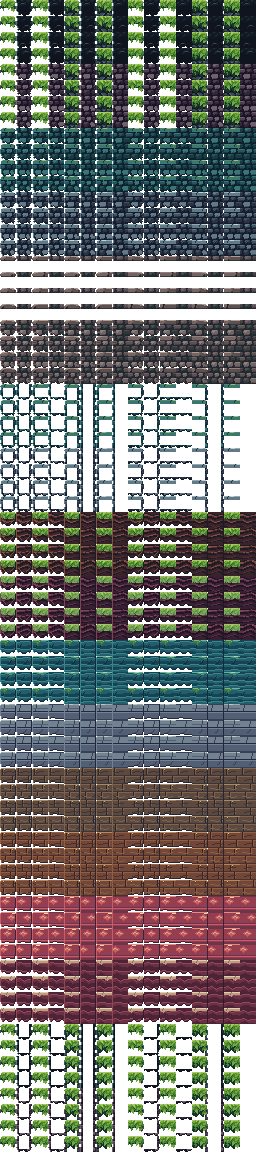
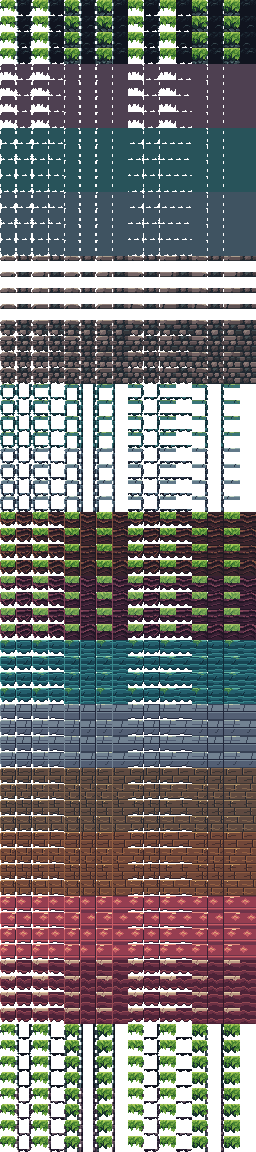
flatten hidden autotile base rows and reject unknown materials
House, cave and chapel base tiles are always covered by stage-foundations,
so they now ship as flat silhouettes. surfaceTiles throws on an unknown
material instead of drawing nothing.

Changed region(s): [[0.0, 0.0312, 1.0, 0.25]]

diff --git a/sources/terrain/make_autotiles.py b/sources/terrain/make_autotiles.py
@@ -126,6 +126,12 @@ def make(material,mask,v):
                 if not ((top and (y<4 or leaf)) or (bottom and y>=13) or
                         (left and x<3) or (right and x>=13)):
                     im.putpixel((x,y),AIR)
+    elif material in ('house','cave','chapel'):
+        # environment.mjs paints stage-foundations over these and the trim
+        # rows redraw the rim, so only the silhouette reaches the screen.
+        flat = Image.new('RGBA',im.size,face)
+        flat.putalpha(im.getchannel('A'))
+        return flat
     return im
 
 atlas=Image.new('RGBA',(16*T,len(MATERIALS)*4*T))
